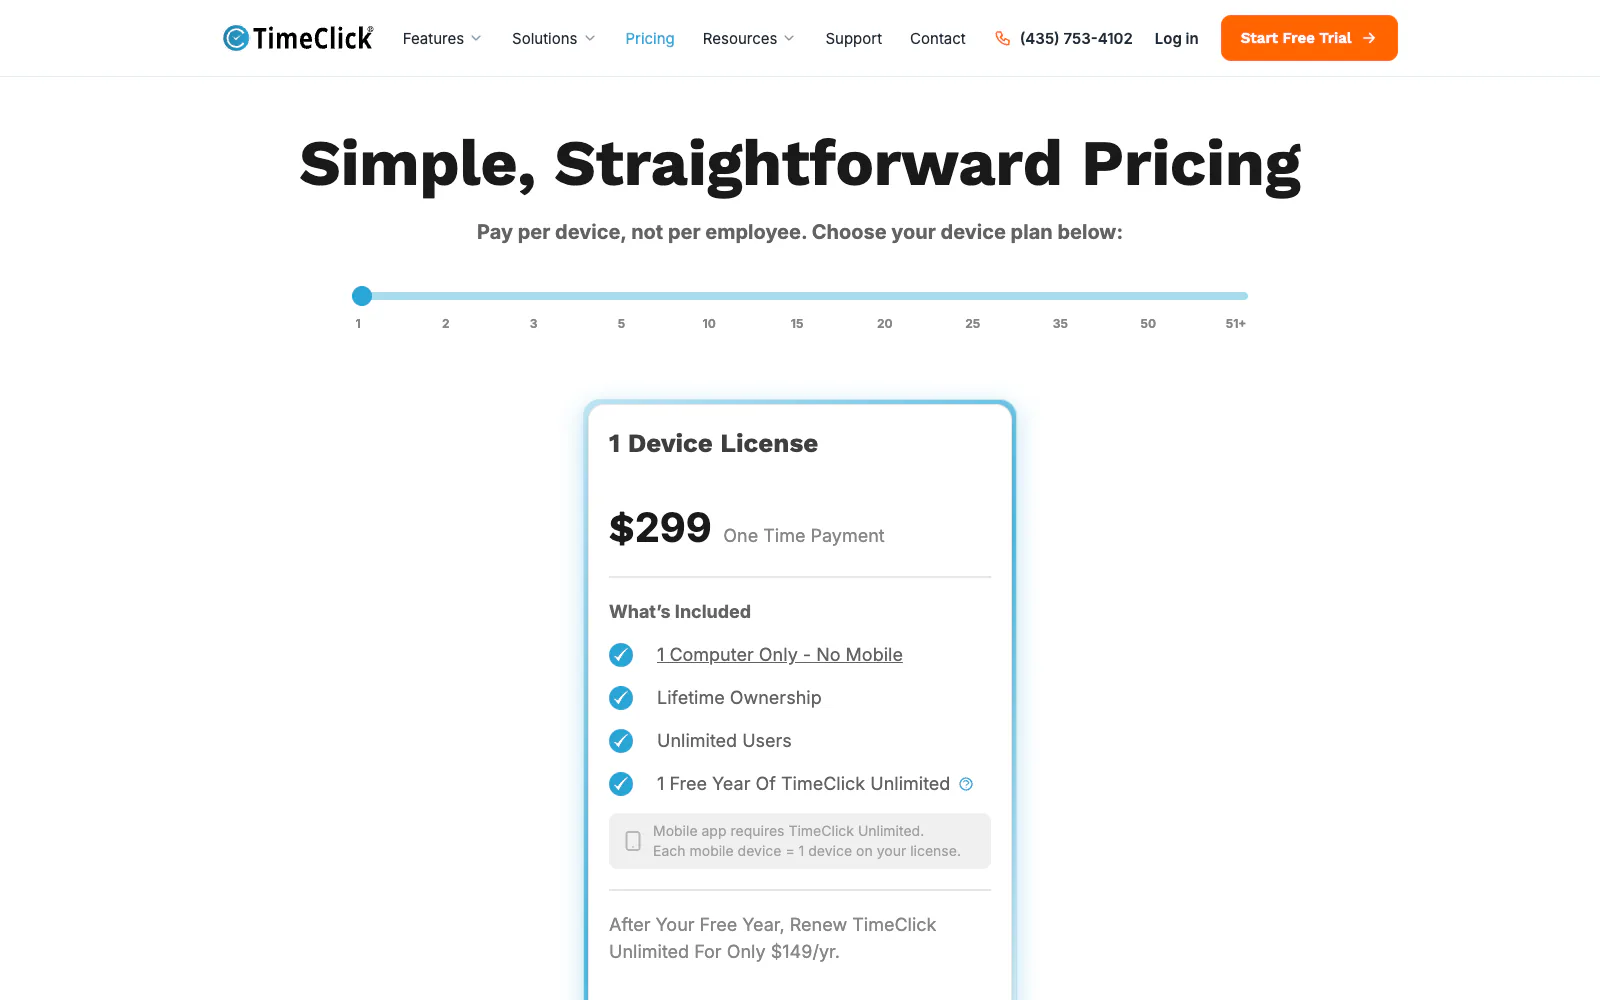
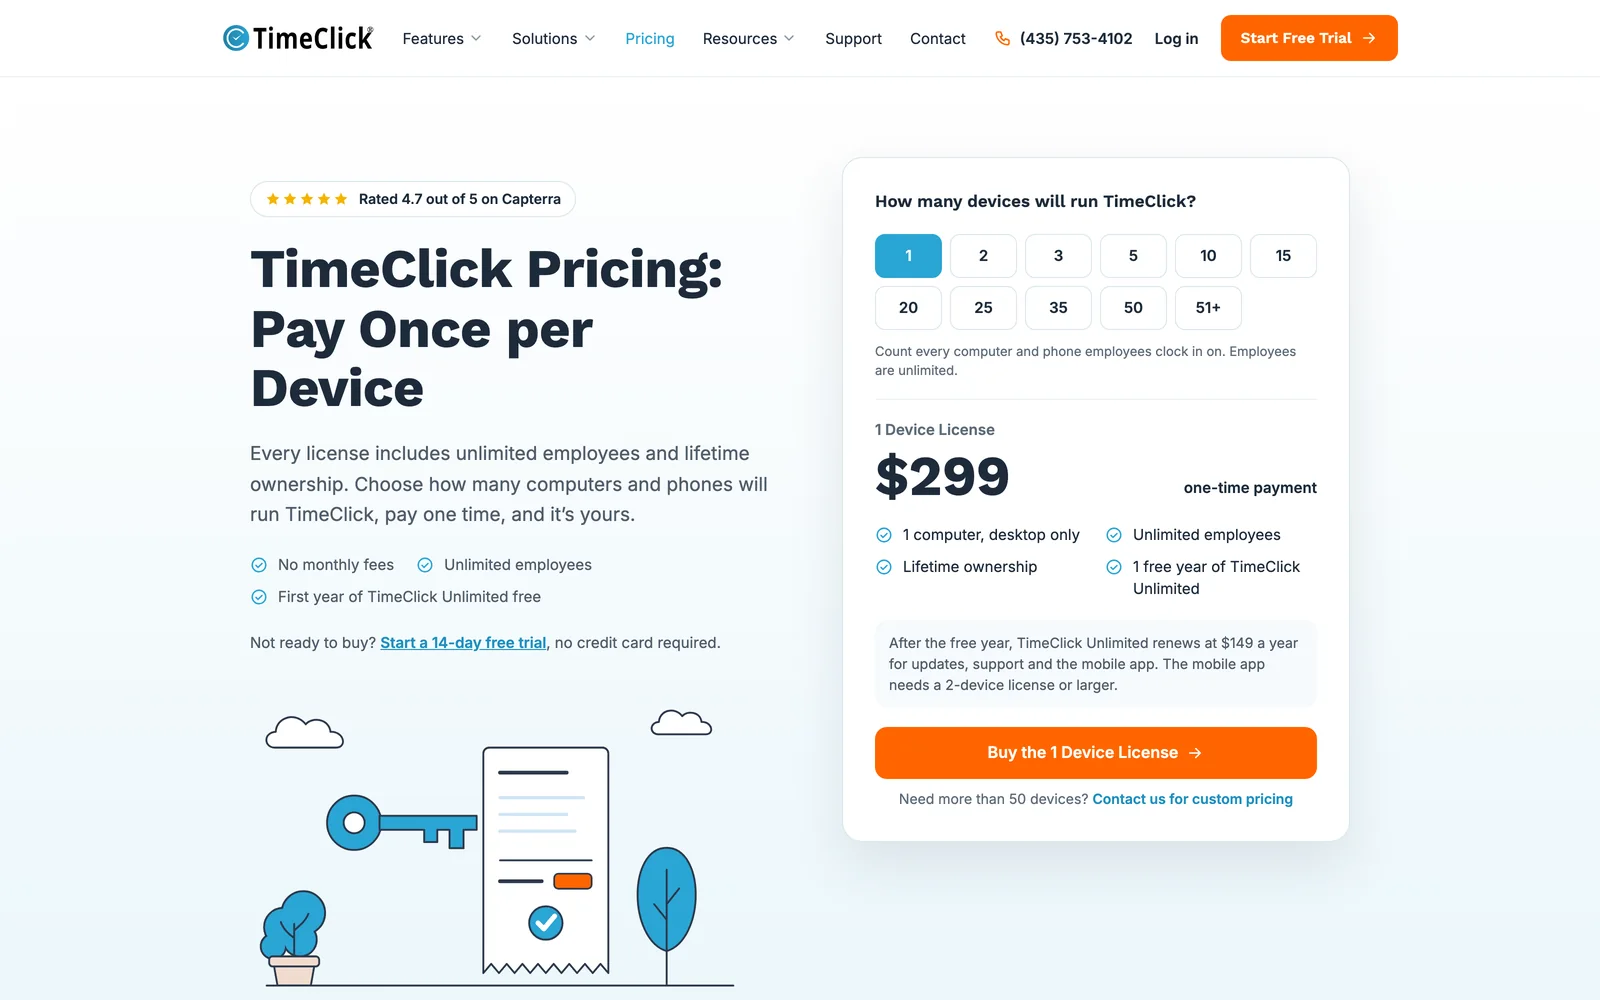
TimeClick: new pricing shot and Ahrefs chart for November 2025 to April 2026

diff --git a/src/data/project-walkthroughs.ts b/src/data/project-walkthroughs.ts
@@ -69,11 +69,11 @@ const timeclick: Walkthrough = {
     figures: [
       {
         src: `${timeclickImages}/seo-traffic.webp`,
-        width: 1600,
-        height: 610,
-        alt: 'Ahrefs line chart of estimated organic traffic to timeclick.com from September 2025 to September 2026. The line is flat near 2,000 until January 2026, climbs to about 45,000 by April 2026 and stays between roughly 20,000 and 40,000 afterwards.',
+        width: 1048,
+        height: 705,
+        alt: 'Ahrefs line chart of estimated organic traffic to timeclick.com from November 2025 to the end of April 2026. The line is flat near 2,000 until January 2026 and climbs to about 45,000 by April 2026.',
         caption:
-          'Estimated organic traffic to timeclick.com, September 2025 to September 2026 (traffic in orange, impressions in dark red). The climb starts in January 2026, the second month of the program, and holds after the program ended. Source: Ahrefs Site Explorer.',
+          'Estimated organic traffic to timeclick.com from November 2025 to the end of April 2026, when I handed off the program (traffic in orange, impressions in dark red). The climb starts in January 2026, the second month of the program. Source: Ahrefs Site Explorer.',
       },
       {
         src: `${timeclickImages}/seo-top-pages.webp`,
@@ -213,7 +213,7 @@ const timeclick: Walkthrough = {
           src: `${timeclickImages}/page-pricing.webp`,
           width: 1600,
           height: 1000,
-          alt: 'The pricing page: "Simple, Straightforward Pricing" with a device license card showing a one-time price.',
+          alt: 'The pricing page: the headline "TimeClick Pricing: Pay Once per Device" with a 4.7 Capterra rating, and a card where visitors pick how many devices will run TimeClick and see the one-time price, what is included and the renewal cost.',
           caption: 'Pricing. One-time price per device, what is included, and what a renewal costs, with nothing hidden.',
         },
         {
